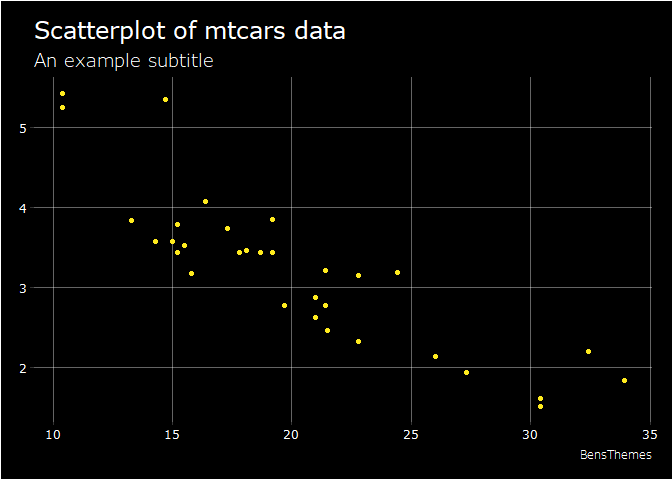
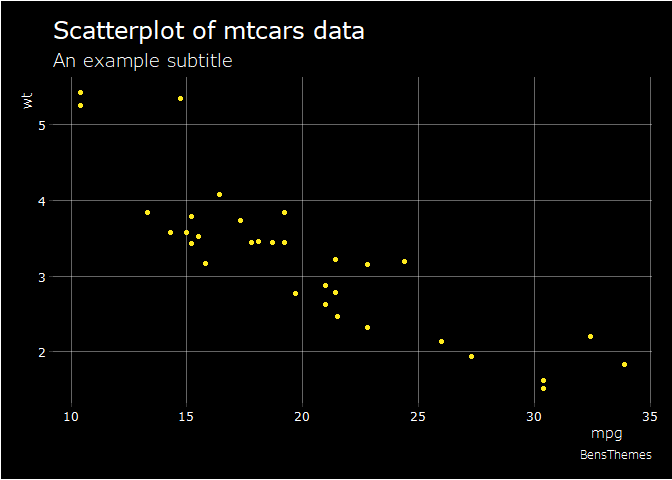
Updated README
Also added option to show axis labels on all plots.

diff --git a/README.md b/README.md
@@ -36,6 +36,9 @@ loadfonts(device = "win")
 
 ## Examples
 
+Note: all themes have the option `axisLabels = FALSE` by default. Simply
+set to true like the examples above to see them.
+
 ### Light Gray Theme
 
 ``` r
@@ -44,7 +47,7 @@ ggplot(mtcars, aes(mpg, wt)) +
   labs(title = "Scatterplot of mtcars data", 
        subtitle = "An example subtitle", 
        caption = "BensThemes") +
-  theme_belightgray()
+  theme_belightgray(axisLabels = TRUE)
 ```
 
 ![](README_files/figure-gfm/lg-1.png)<!-- -->
@@ -57,7 +60,7 @@ ggplot(mtcars, aes(mpg, wt)) +
   labs(title = "Scatterplot of mtcars data",
        subtitle = "An example subtitle",
        caption = "BensThemes") +
-  theme_bedark()
+  theme_bedark(axisLabels = TRUE)
 ```
 
 ![](README_files/figure-gfm/d-1.png)<!-- -->
@@ -70,7 +73,7 @@ ggplot(mtcars, aes(mpg, wt)) +
   labs(title = "Scatterplot of mtcars data",
        subtitle = "An example subtitle",
        caption = "BensThemes") +
-  theme_bedarkish()
+  theme_bedarkish(axisLabels = TRUE)
 ```
 
 ![](README_files/figure-gfm/di-1.png)<!-- -->
